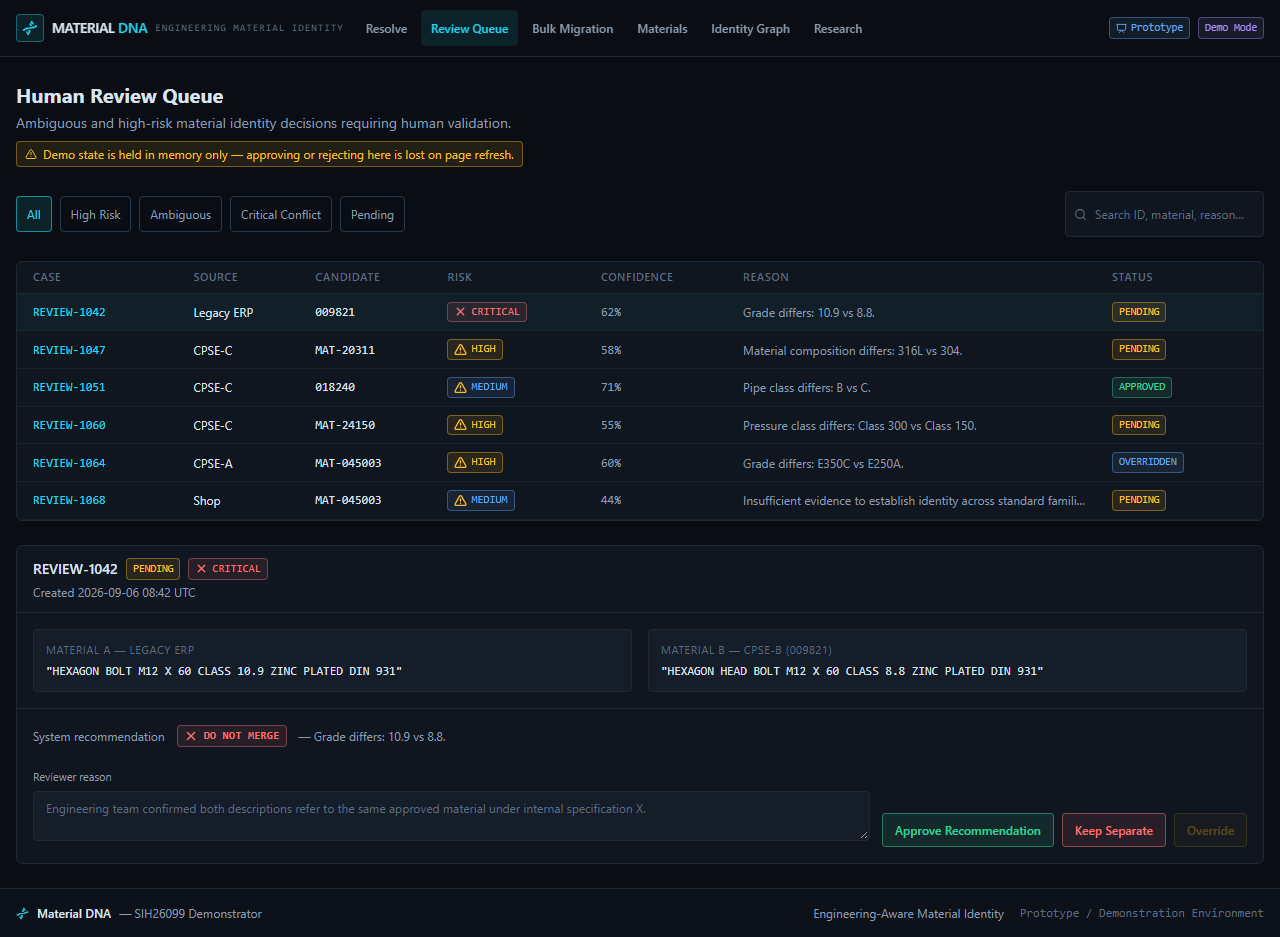
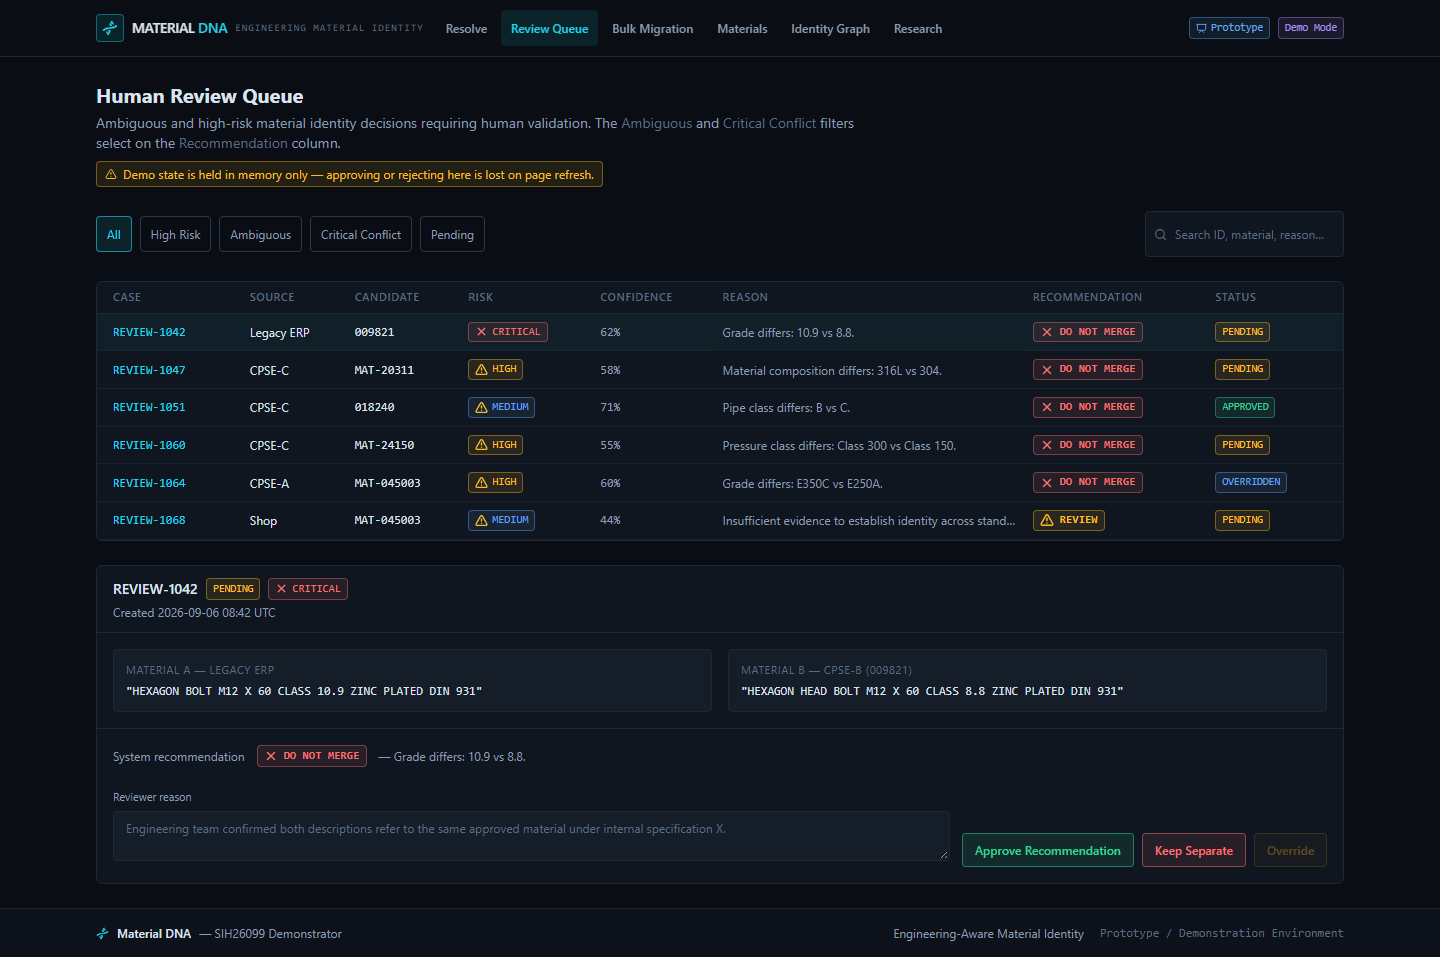
docs: refresh 05-review.png with current recommendation column

diff --git a/README.md b/README.md
@@ -50,7 +50,7 @@ so the engine refuses, and shows the conflicting attribute as the reason.
 | --- | --- |
 | <img src="./docs/screenshots/02-resolve-veto.png" alt="Resolve page showing a DO NOT MERGE verdict caused by an engineering-critical grade conflict" width="100%" /> | <img src="./docs/screenshots/03-graph.png" alt="Identity graph page showing canonical identity clusters and held-out vetoed proposals" width="100%" /> |
 | **`/` · the veto.** Same input as the left neighbour, but the nearest candidate is grade 10.9 — blocked. | **`/graph` · constraint-aware clusters.** 18 identities from 98 records; 24 high-similarity pairs held out by the veto instead of merged. |
-| <img src="./docs/screenshots/04-materials.png" alt="Materials page listing canonical material identities with their linked source records" width="100%" /> | <img src="./docs/screenshots/05-review.png" alt="Review queue page with risk filters and human approval workflow" width="100%" /> |
+| <img src="./docs/screenshots/04-materials.png" alt="Materials page listing canonical material identities with their linked source records" width="100%" /> | <img src="./docs/screenshots/05-review.png" alt="Review queue page with risk filters, human approval workflow, and system recommendation column" width="100%" /> |
 | **`/materials` · canonical identities** and the legacy codes each one absorbs. | **`/review` · human-in-the-loop queue.** Every AI verdict a human can approve, reject, or override — with an audit note. |
 
 ---
